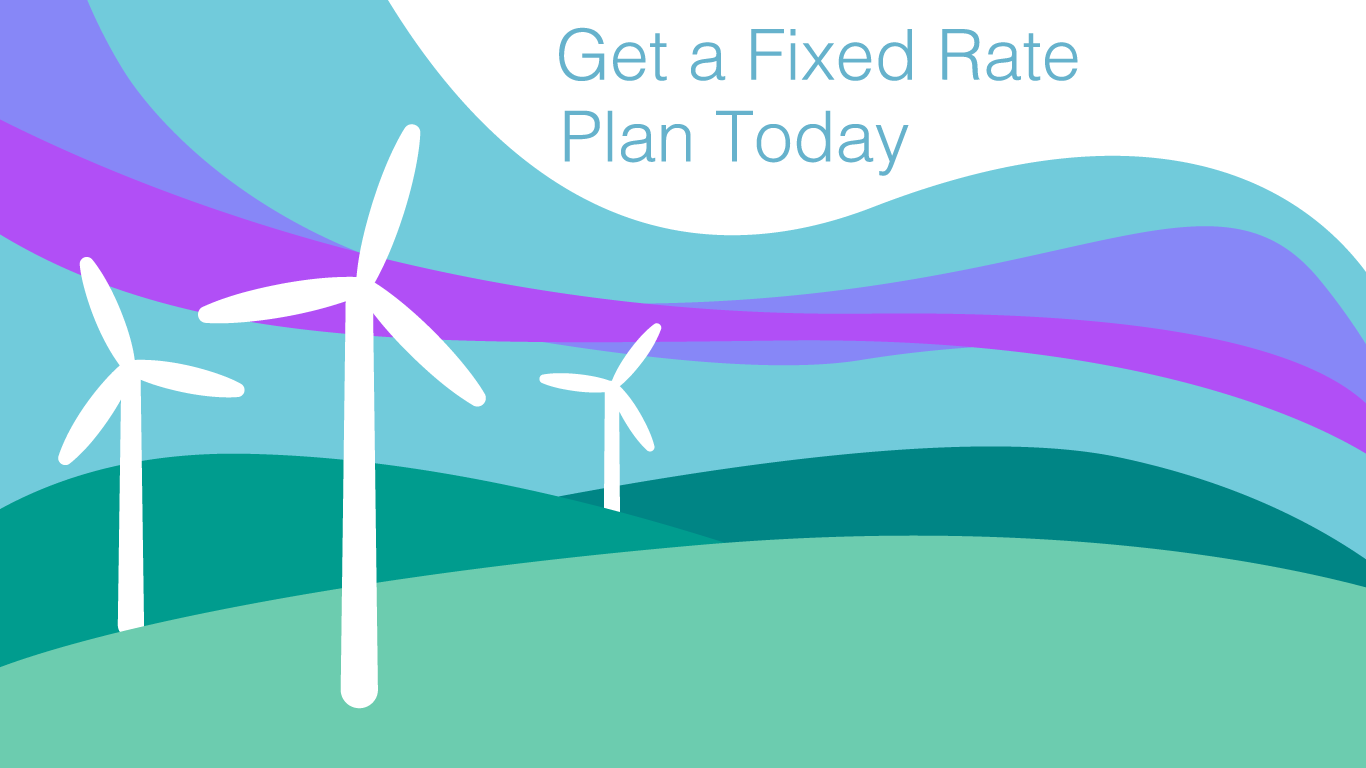
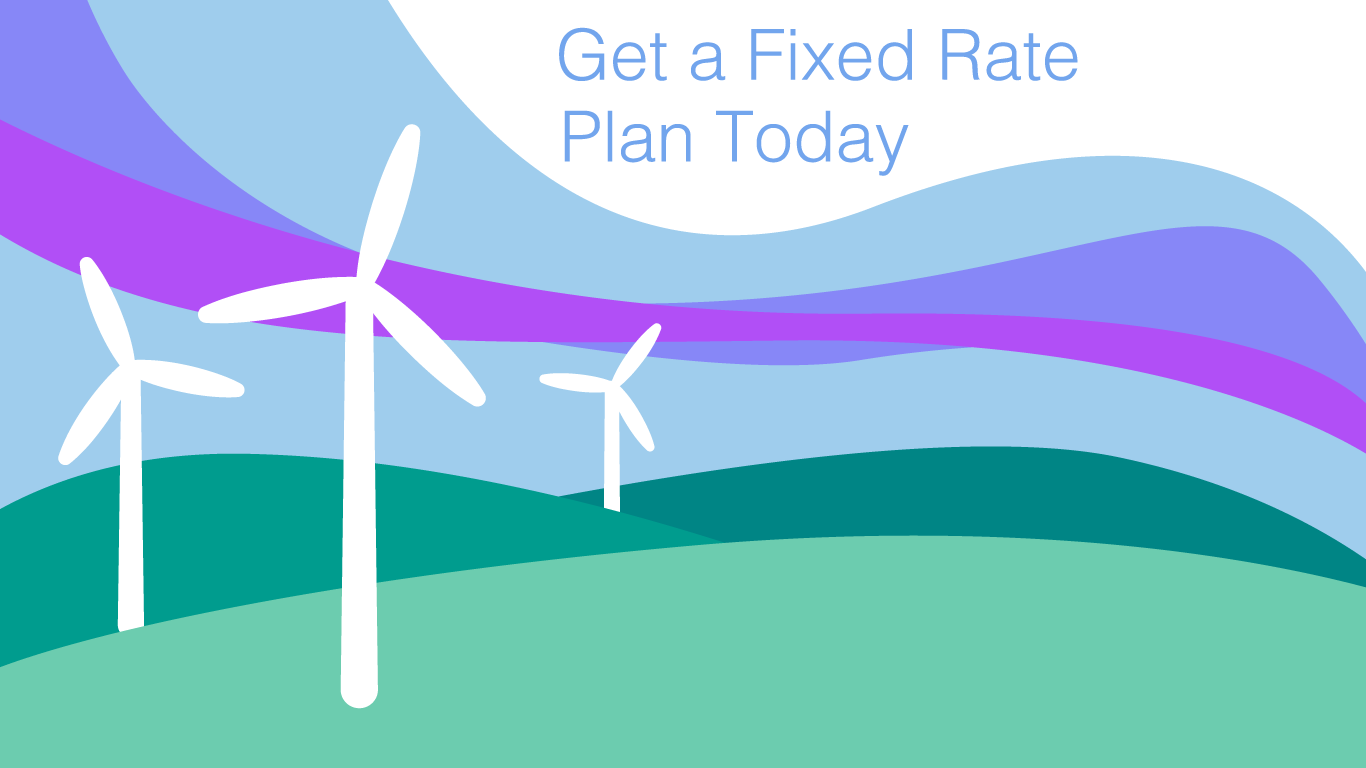
css and graphic art

diff --git a/public/style.css b/public/style.css
@@ -36,7 +36,7 @@ p {
   font-family: "Helvetica-Light";
   font-size: 32px;
   color: white;
-  margin-bottom: 4%;
+  margin-bottom: 3%;
 }
 
 .ftype2 {
@@ -116,7 +116,7 @@ p {
   max-height: 160px;
   width: 75%;
   height: 6%;
-  background: rgb(180, 192, 219);
+  background: rgb(177, 205, 221);
   margin-bottom: 3%;
 }
 
@@ -124,12 +124,12 @@ p {
   display: flex;
   justify-content: center;
   width: 100%;
-  margin-bottom: 100px;
+  margin-bottom: 5%;
 }
 
 .logo-image {
   display: flex;
-  margin-top: 3%;
+  margin-top: 1%;
   width: 30%;
   max-width: 300px;
 }
@@ -194,7 +194,6 @@ p {
   }
 
   .logo-image {
-    margin-top: 20px;
     width: 58%;
   }
 
